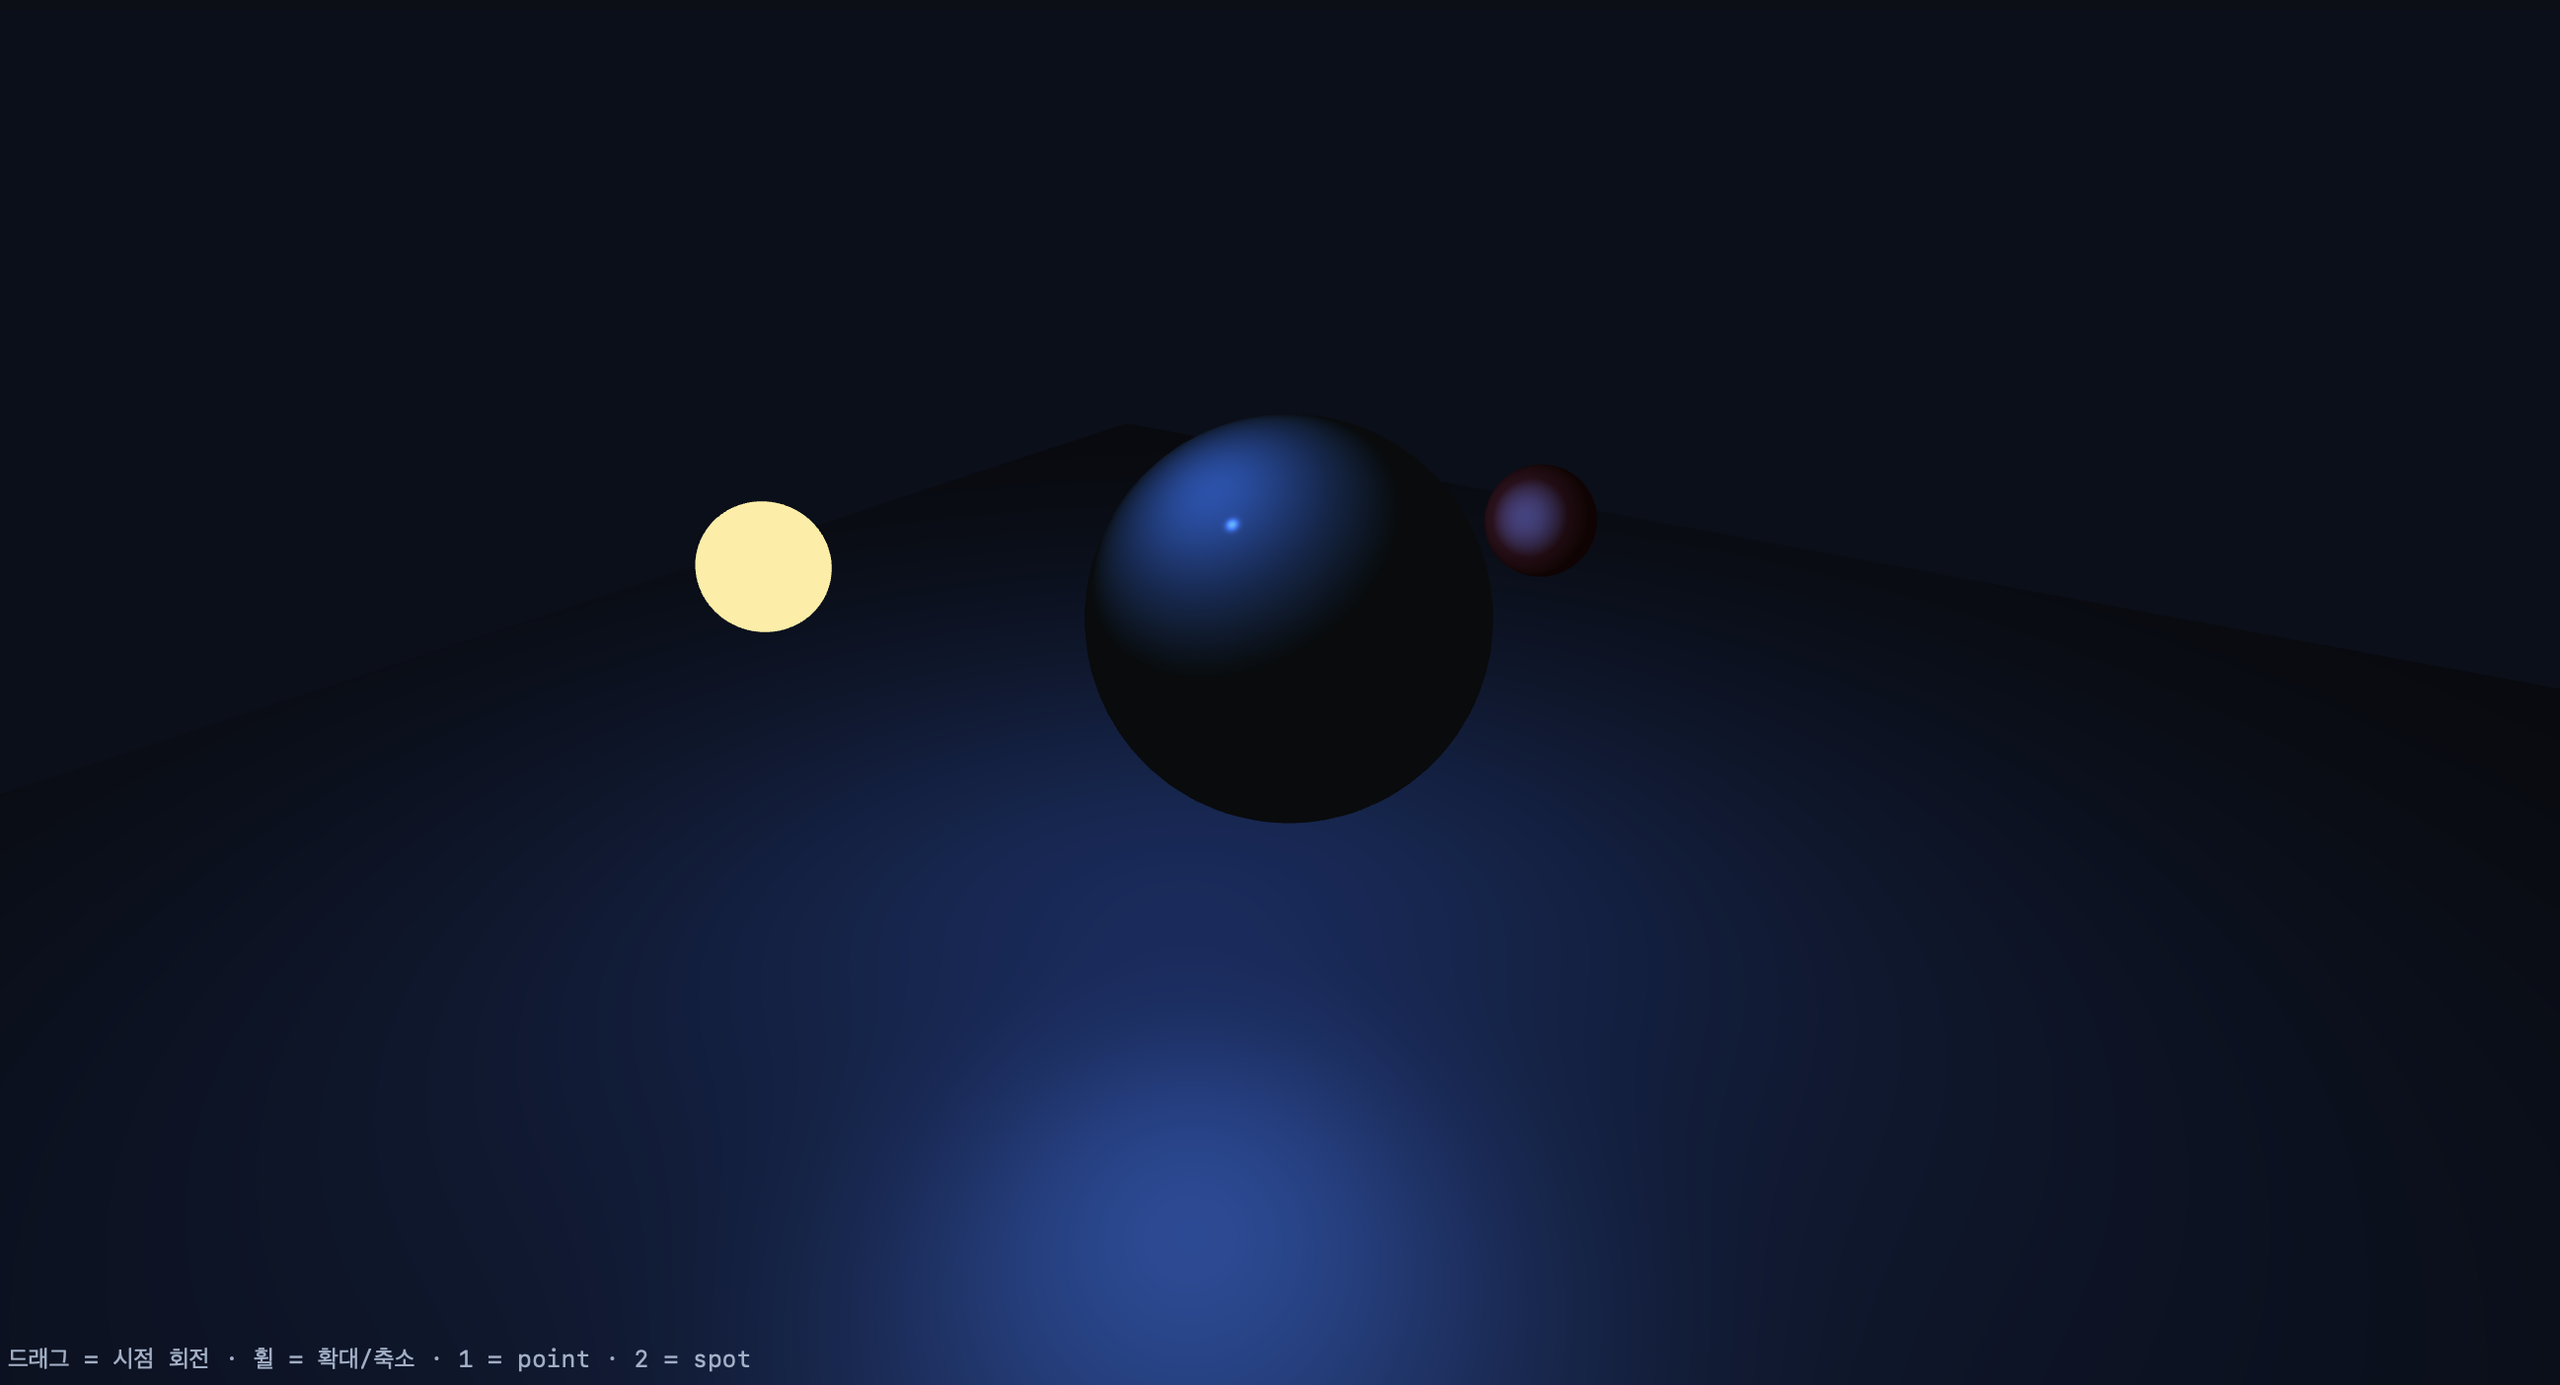
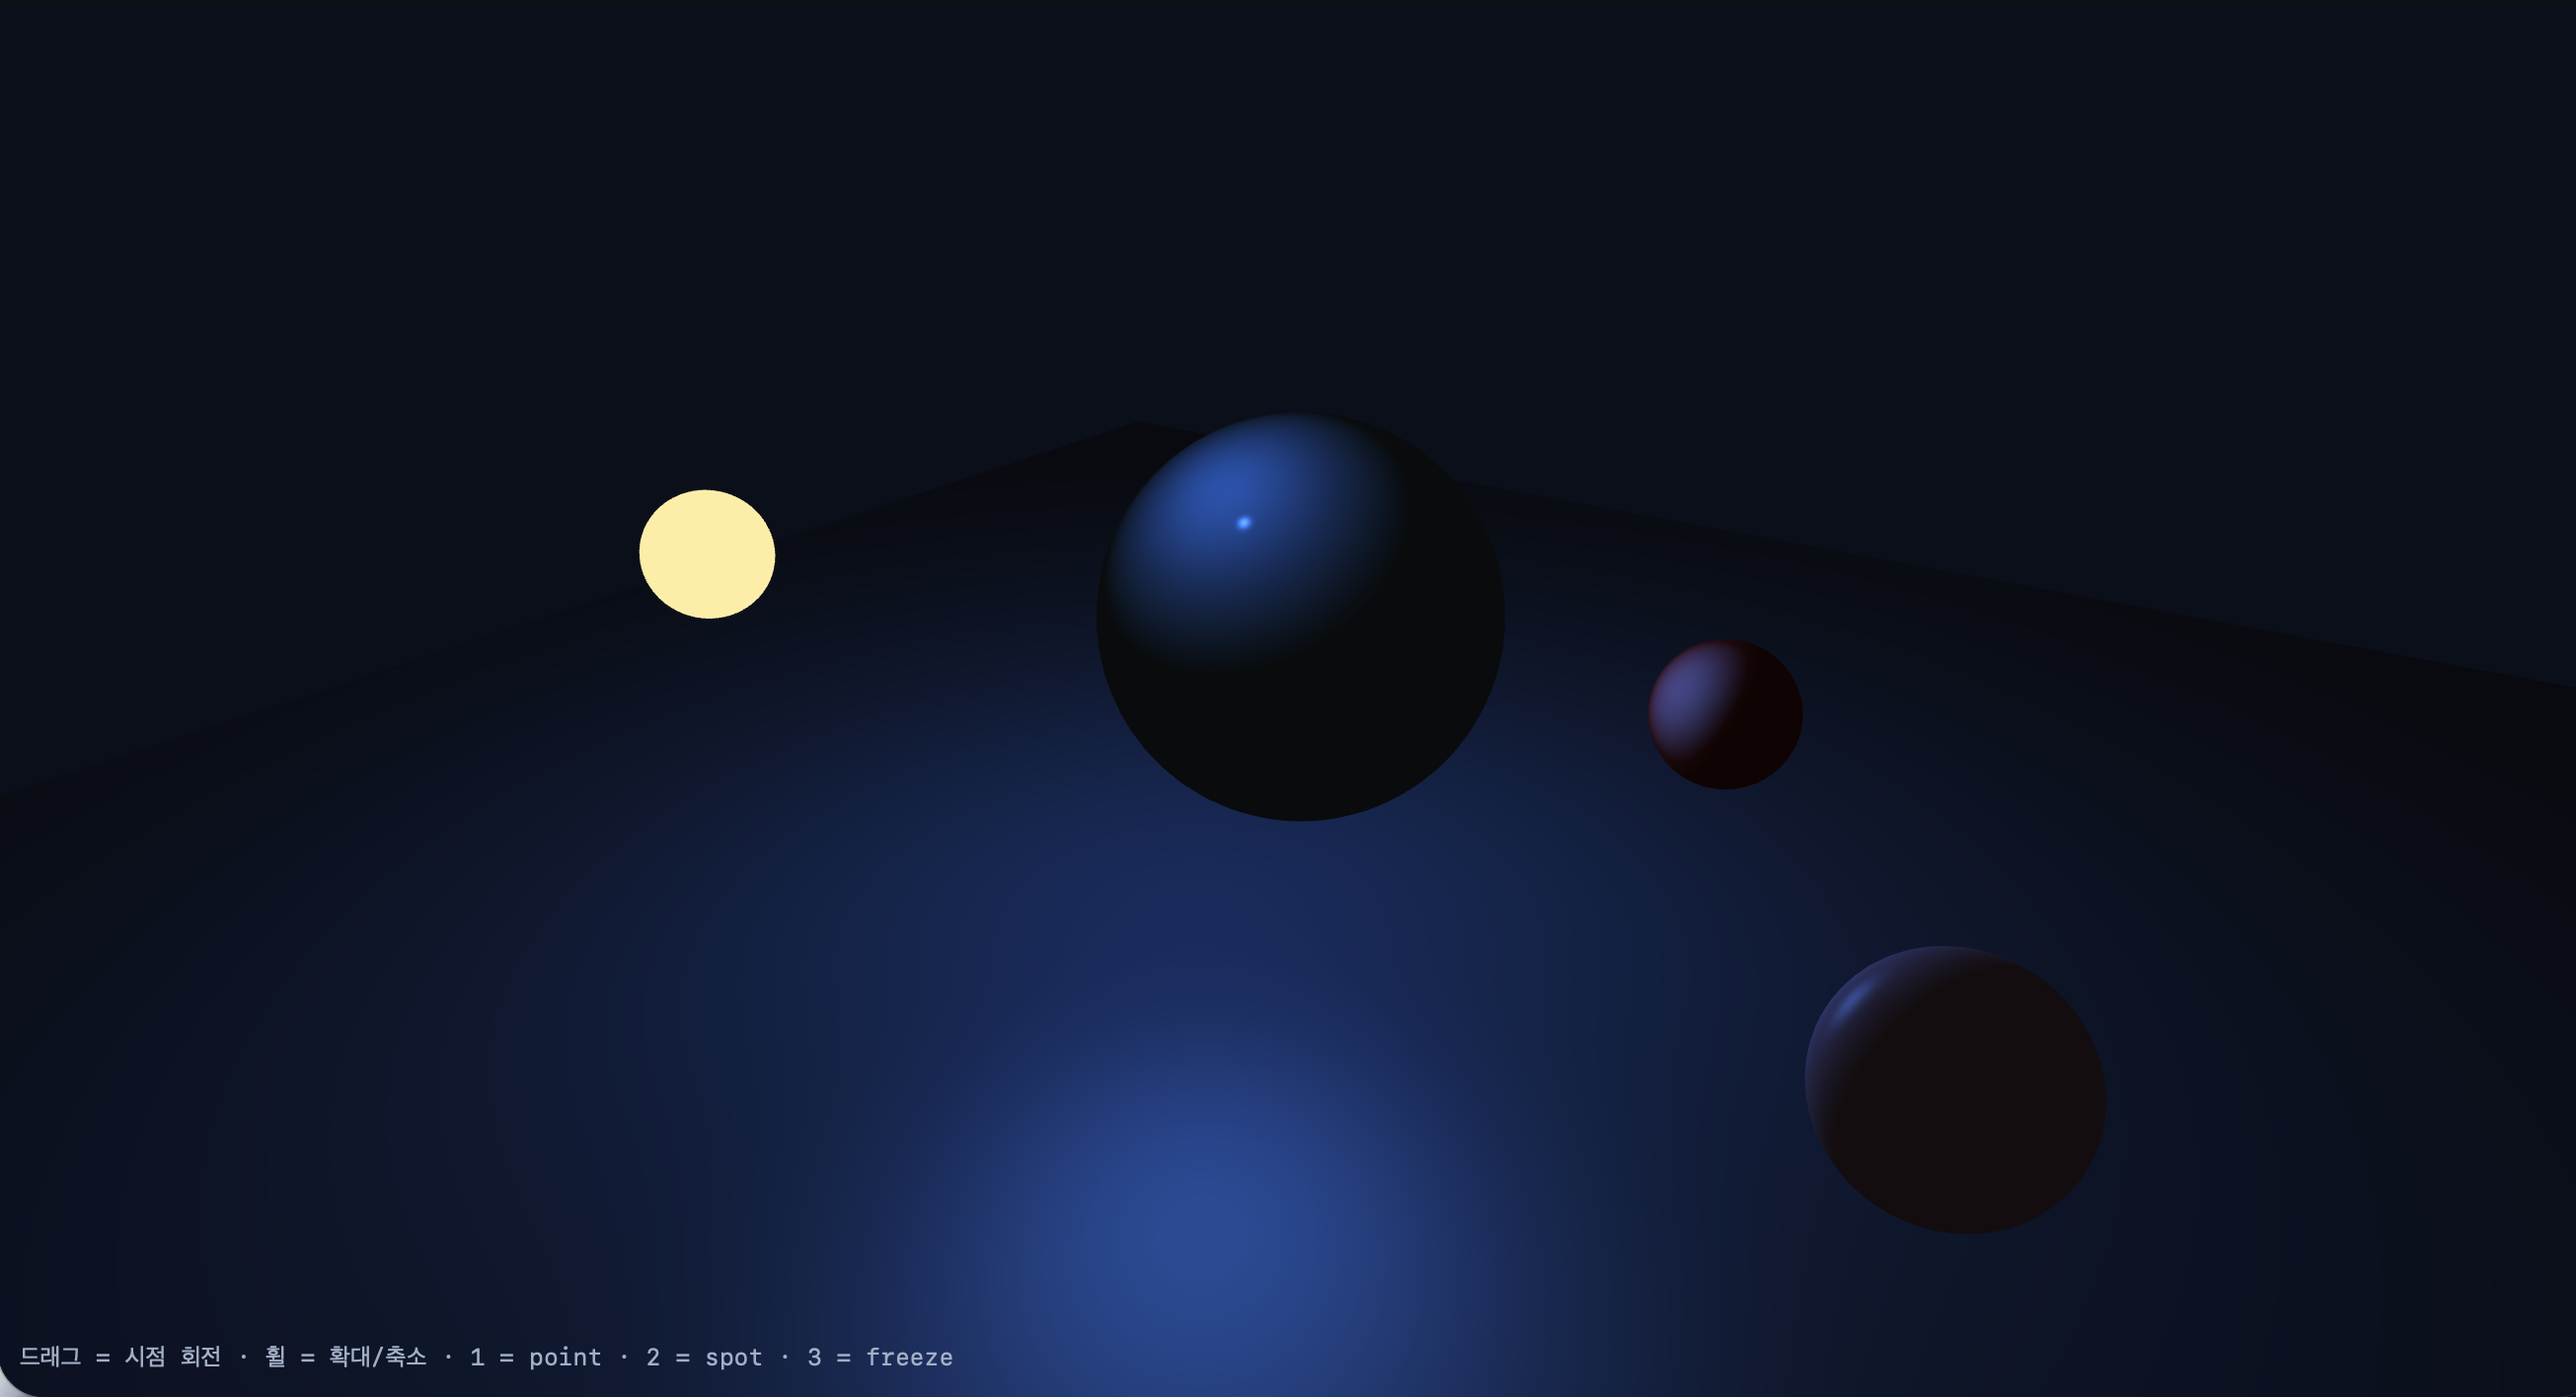
사진변경

diff --git a/week5/task2.html b/week5/task2.html
@@ -498,7 +498,7 @@ function render() {
   mm = Mat4.multiply(mm, Mat4.scale(0.42, 0.42, 0.42));
   draw(sphere, mm, [0.85, 0.15, 0.15], 1, false, 0.5); //색상 붉게 변경, ushiniess을 16->1로 낮춤
 
-  // 뉴성 — 공전하지 않고 안내 문구의 시점 회전과 휠 사이에 고정한다.
+  // 핑성 — 공전하지 않고 안내 문구의 시점 회전과 휠 사이에 고정한다.
   let mn = Mat4.translate(5.0, 5.6, 4.1);
   mn = Mat4.multiply(mn, Mat4.scale(0.39, 0.39, 0.39));
   draw(sphere, mn, [1.0, 0.65, 0.75], 40, false, 0.5);
